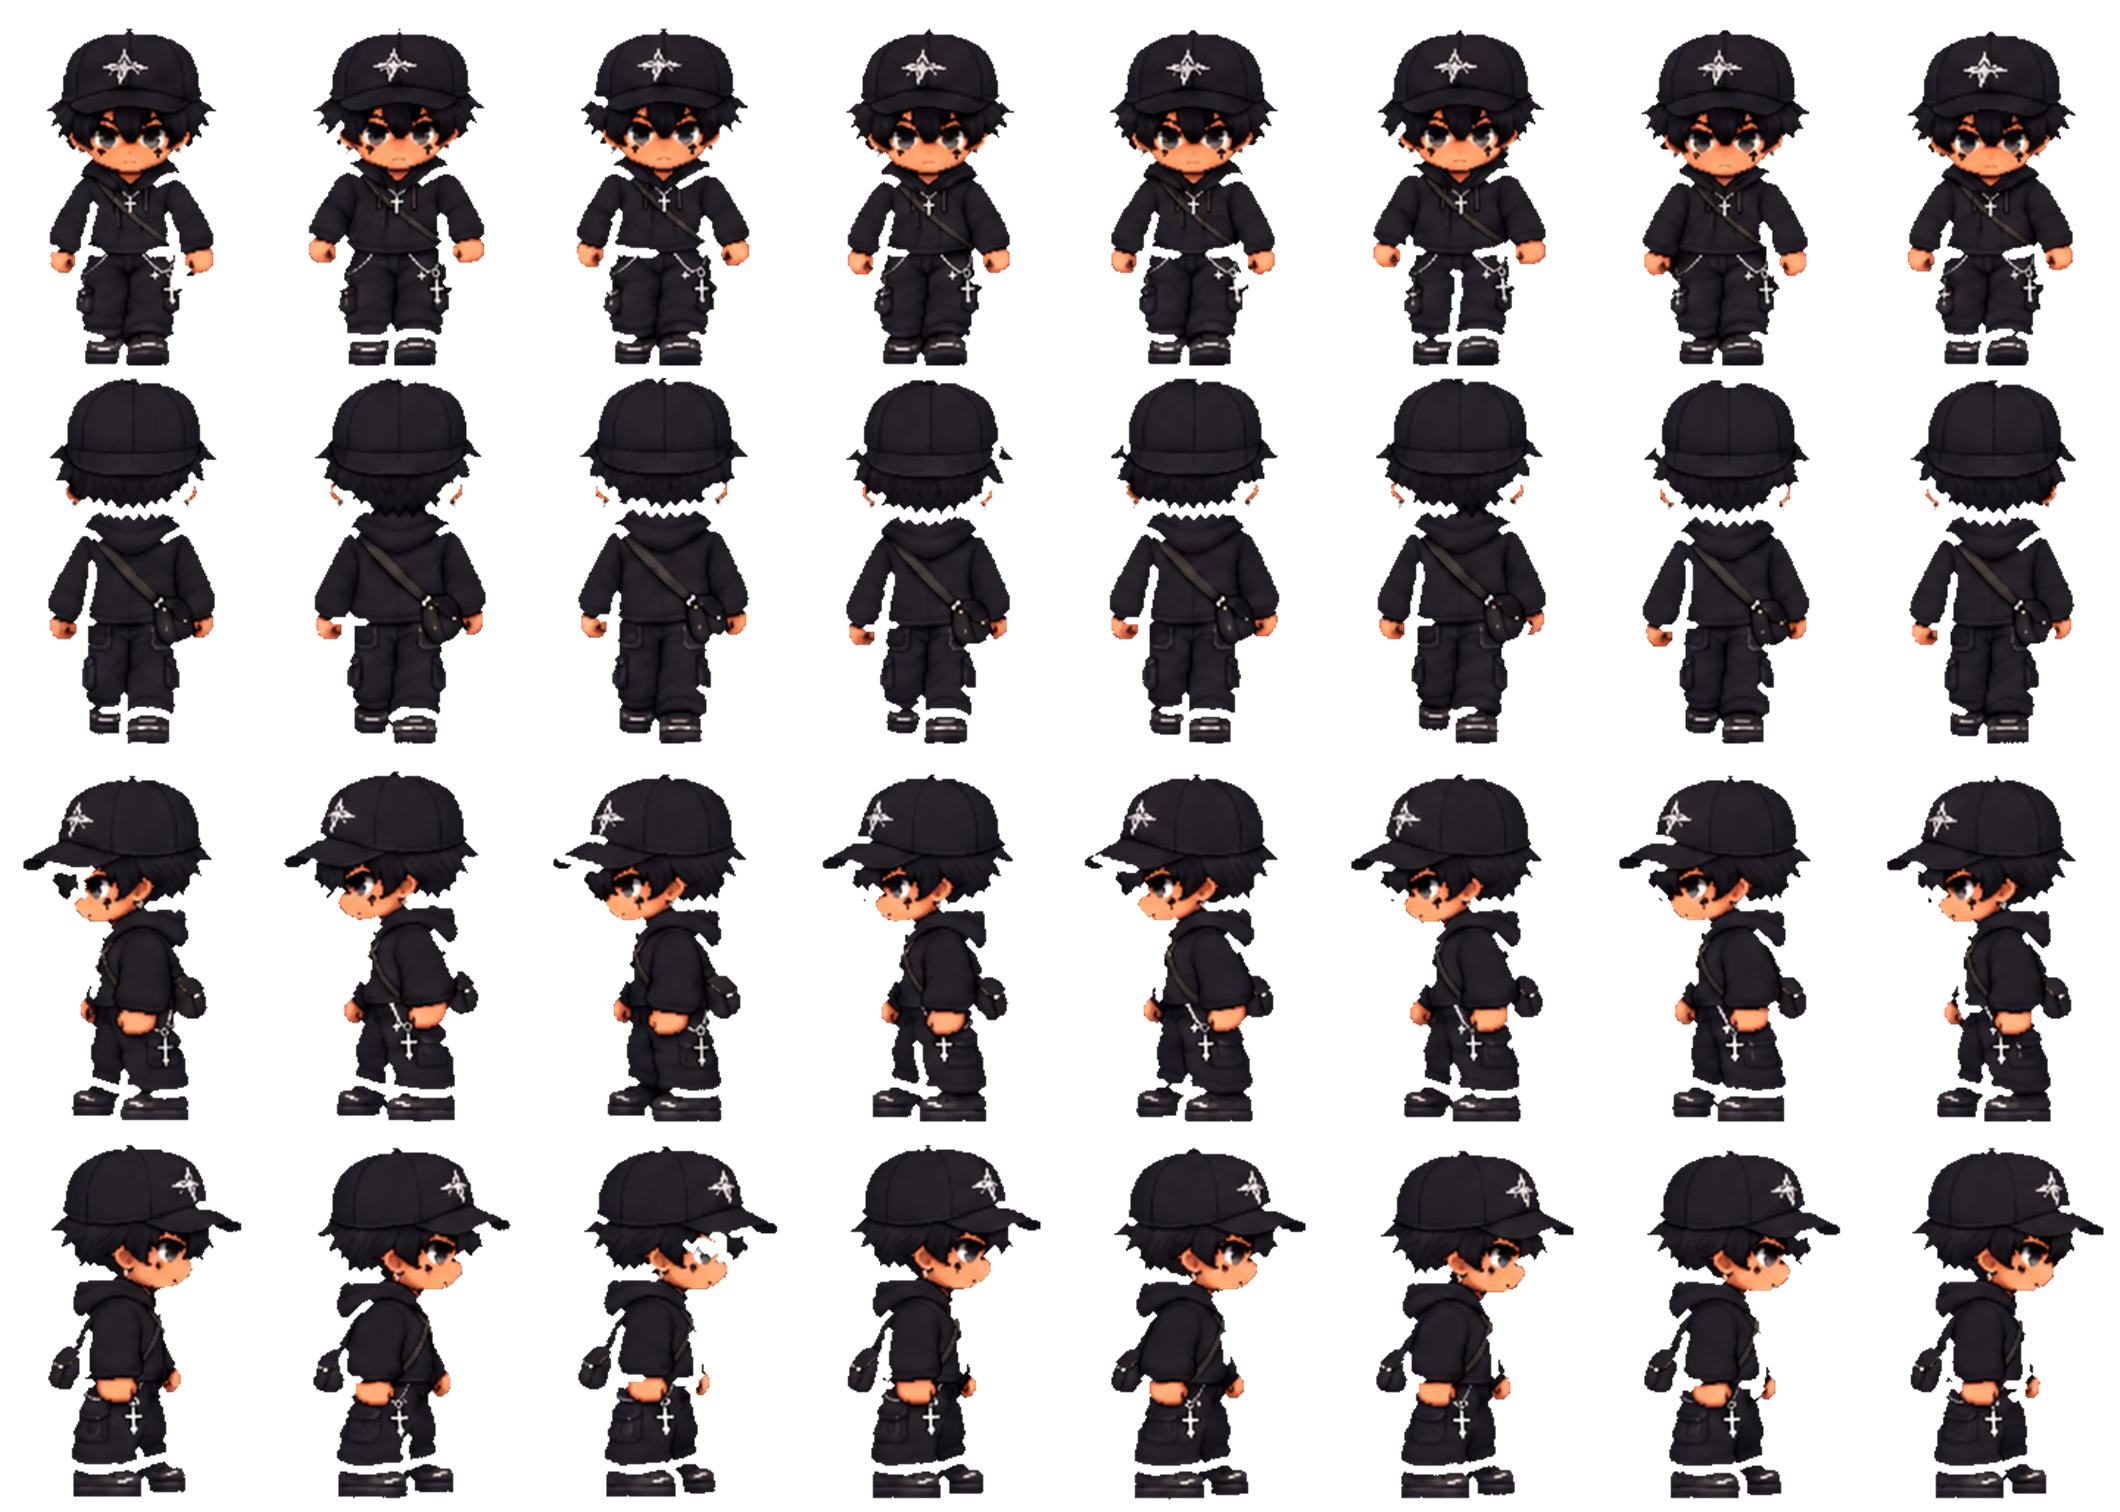
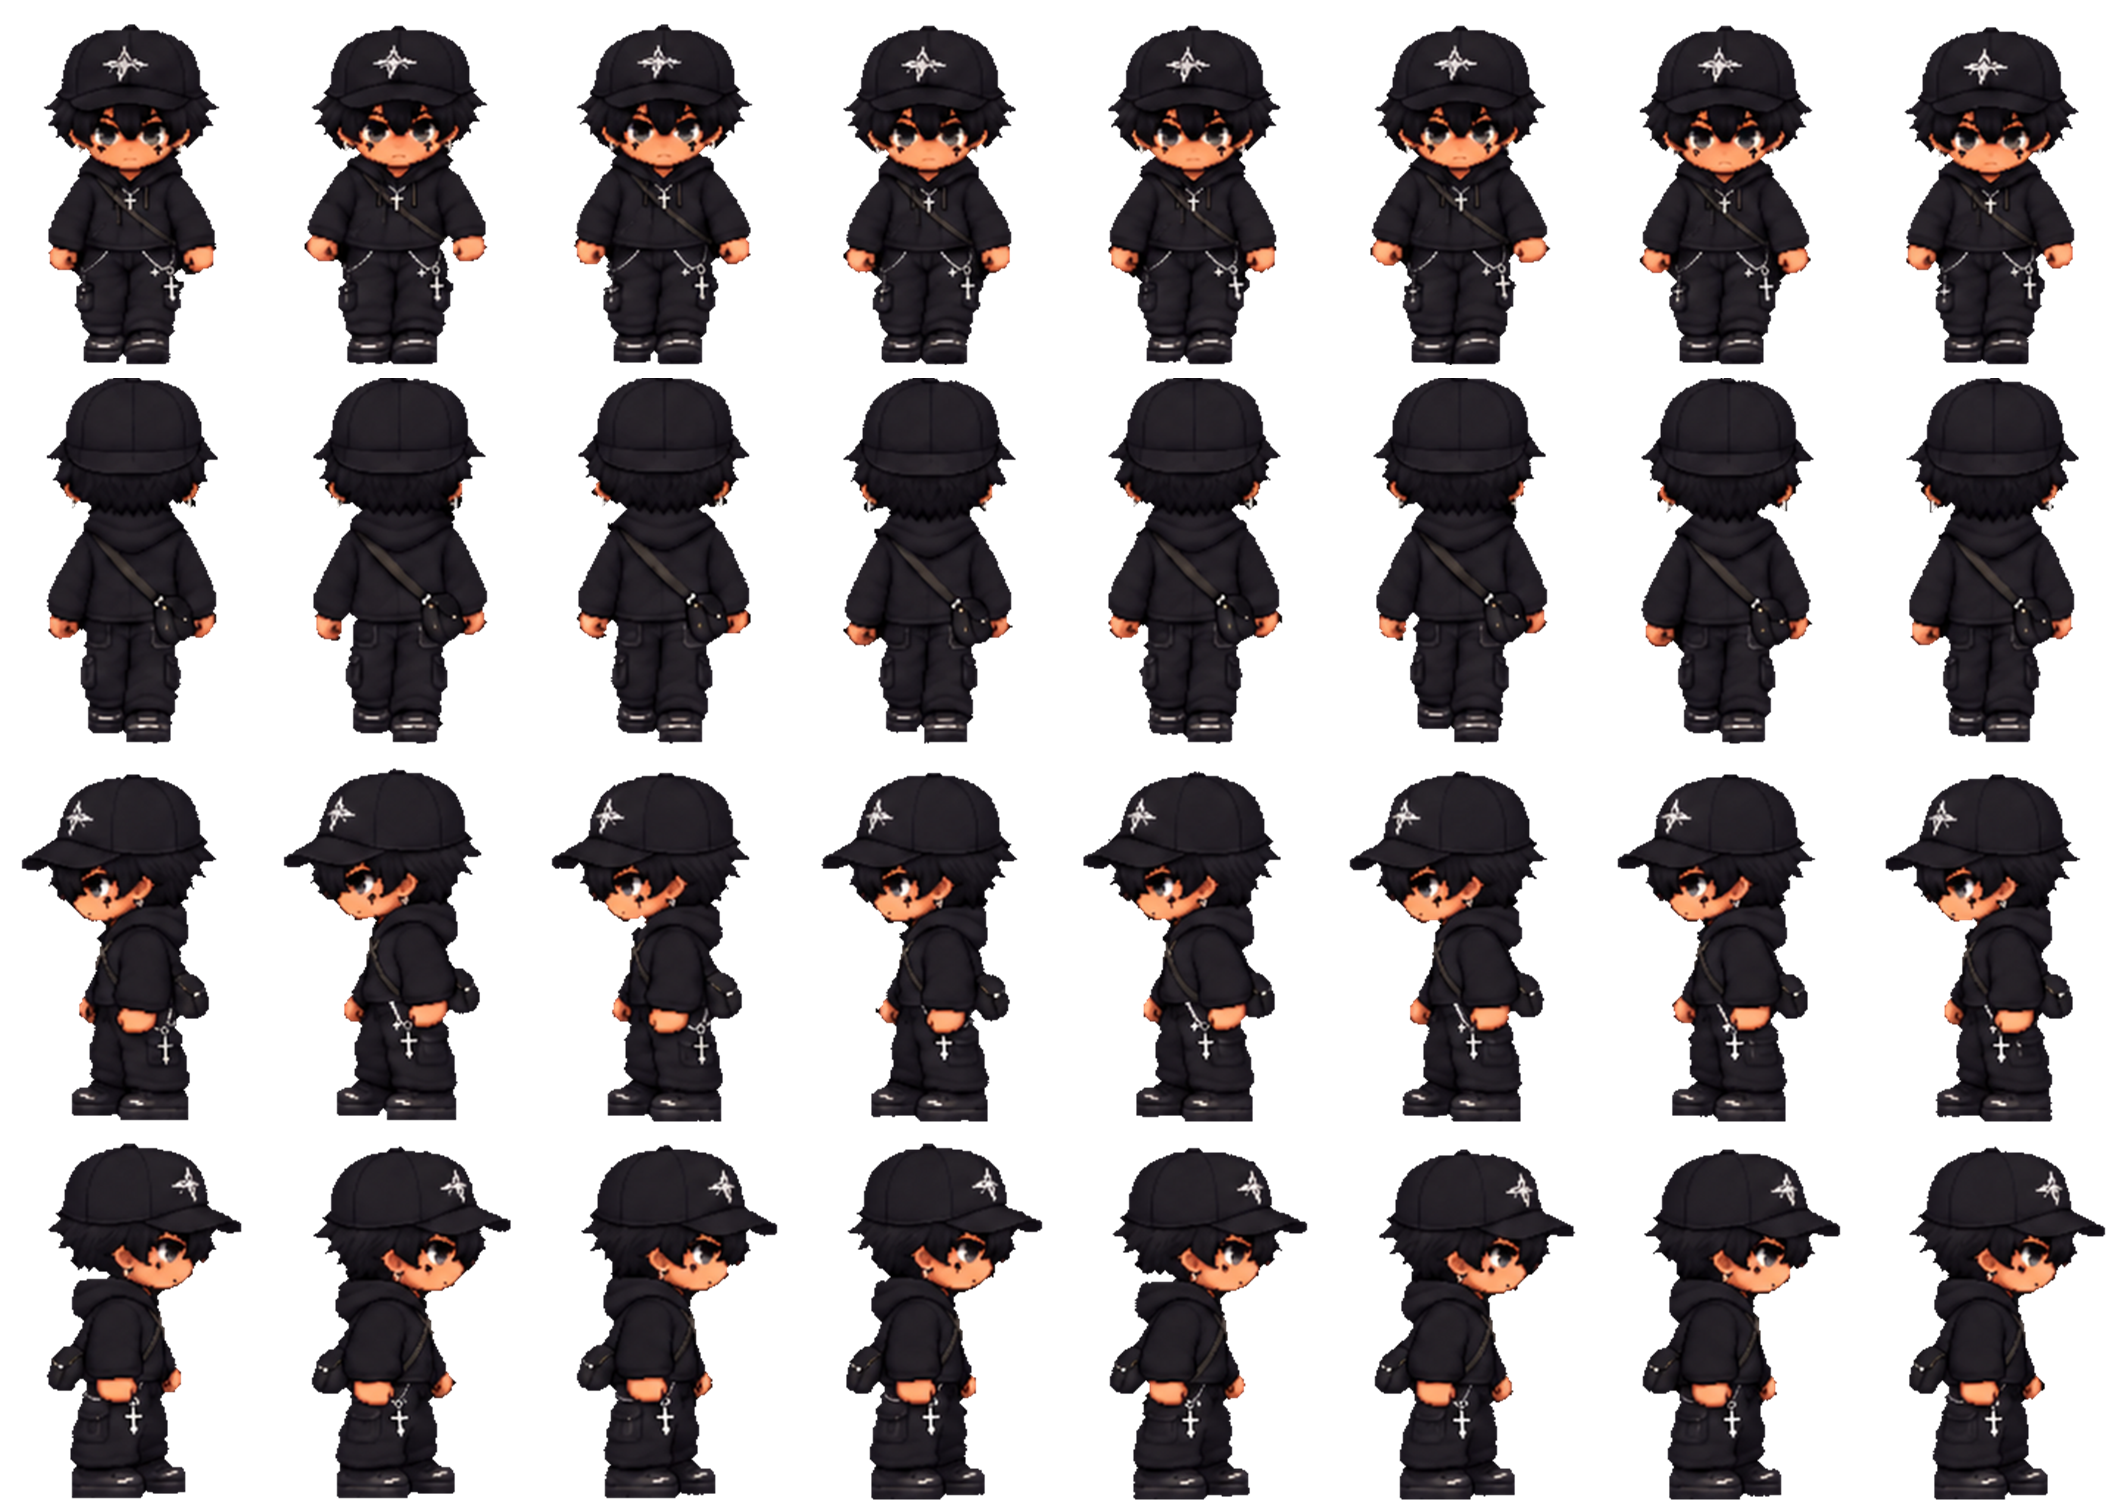
Cleaner boy idle sheet; Mage side-run on the Home preview

diff --git a/lib/widgets/sprite_walk_preview.dart b/lib/widgets/sprite_walk_preview.dart
@@ -20,6 +20,7 @@ class SpriteWalkPreview extends StatefulWidget {
   const SpriteWalkPreview({
     super.key,
     required this.assetPath,
+    this.sideAssetPath,
     this.facing,
     this.animate = true,
     this.columns = 8,
@@ -34,6 +35,11 @@ class SpriteWalkPreview extends StatefulWidget {
   });
 
   final String assetPath;
+
+  /// Optional 8 x 2 sheet used when facing left (row 0) or right (row 1),
+  /// e.g. a character's dedicated side-run cycle. Its frames must be the
+  /// same size as [assetPath]'s.
+  final String? sideAssetPath;
 
   /// When set, the character keeps walking in place facing this way
   /// instead of turning through [directionOrder].
@@ -63,6 +69,7 @@ const Map<SpriteDirection, int> _rowForDirection = {
 
 class _SpriteWalkPreviewState extends State<SpriteWalkPreview> {
   ui.Image? _sheet;
+  ui.Image? _sideSheet;
   Timer? _timer;
 
   int _directionIndex = 0;
@@ -75,12 +82,22 @@ class _SpriteWalkPreviewState extends State<SpriteWalkPreview> {
   }
 
   Future<void> _loadImage() async {
-    final data = await rootBundle.load(widget.assetPath);
-    final codec = await ui.instantiateImageCodec(data.buffer.asUint8List());
-    final frame = await codec.getNextFrame();
+    final sheet = await _decode(widget.assetPath);
+    final side = widget.sideAssetPath == null
+        ? null
+        : await _decode(widget.sideAssetPath!);
     if (!mounted) return;
-    setState(() => _sheet = frame.image);
+    setState(() {
+      _sheet = sheet;
+      _sideSheet = side;
+    });
     _startLoop();
+  }
+
+  static Future<ui.Image> _decode(String asset) async {
+    final data = await rootBundle.load(asset);
+    final codec = await ui.instantiateImageCodec(data.buffer.asUint8List());
+    return (await codec.getNextFrame()).image;
   }
 
   void _startLoop() {
@@ -115,15 +132,20 @@ class _SpriteWalkPreviewState extends State<SpriteWalkPreview> {
 
     final direction =
         widget.facing ?? widget.directionOrder[_directionIndex];
-    final row = _rowForDirection[direction]!;
+    final side = _sideSheet;
+    final useSide =
+        side != null &&
+        (direction == SpriteDirection.west || direction == SpriteDirection.east);
 
     return CustomPaint(
       painter: _SpritePainter(
-        sheet: sheet,
+        sheet: useSide ? side : sheet,
         columns: widget.columns,
-        rows: widget.rows,
+        rows: useSide ? 2 : widget.rows,
         col: _frameIndex,
-        row: row,
+        row: useSide
+            ? (direction == SpriteDirection.west ? 0 : 1)
+            : _rowForDirection[direction]!,
       ),
       size: Size.infinite,
     );

diff --git a/lib/screens/welcome_screen.dart b/lib/screens/welcome_screen.dart
@@ -324,6 +324,7 @@ class _WelcomeScreenState extends State<WelcomeScreen> with RouteAware {
               height: frameHeight,
               child: _CharacterStage(
                 sheet: characterAt(_characterIndex).sheet,
+                sideSheet: characterAt(_characterIndex).horizontalRunSheet,
                 facing: facing,
                 onPrevious: () => _turn(_facings.length - 1),
                 onNext: () => _turn(1),
@@ -383,6 +384,7 @@ class _WelcomeScreenState extends State<WelcomeScreen> with RouteAware {
 class _CharacterStage extends StatelessWidget {
   const _CharacterStage({
     required this.sheet,
+    this.sideSheet,
     required this.facing,
     required this.onPrevious,
     required this.onNext,
@@ -390,6 +392,9 @@ class _CharacterStage extends StatelessWidget {
 
   /// The chosen character's walk sheet.
   final String sheet;
+
+  /// Their left/right run sheet, if they have one.
+  final String? sideSheet;
   final SpriteDirection facing;
   final VoidCallback onPrevious;
   final VoidCallback onNext;
@@ -422,8 +427,9 @@ class _CharacterStage extends StatelessWidget {
                   Padding(
                     padding: const EdgeInsets.fromLTRB(24, 18, 24, 10),
                     child: SpriteWalkPreview(
-                      key: ValueKey(sheet),
+                      key: ValueKey('$sheet|$sideSheet'),
                       assetPath: sheet,
+                      sideAssetPath: sideSheet,
                       facing: facing,
                     ),
                   ),
